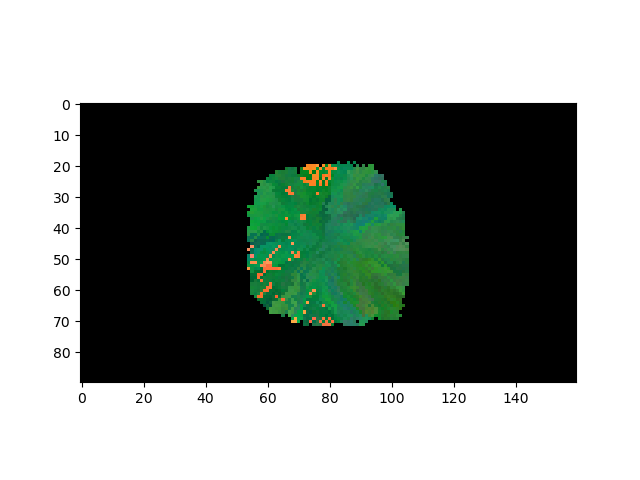
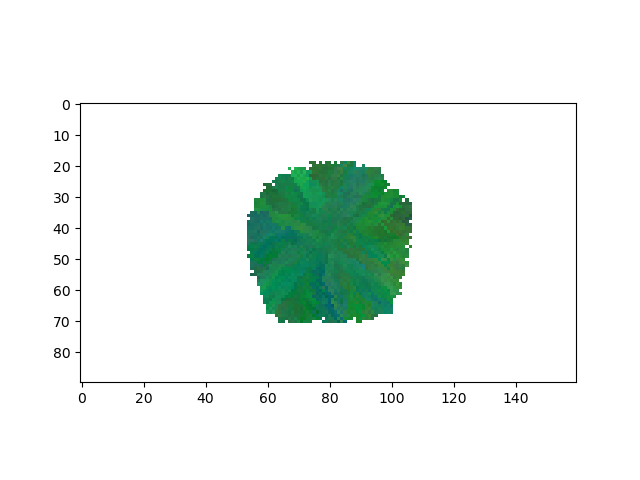
fixed white background

diff --git a/colour.py b/colour.py
@@ -7,7 +7,7 @@ steps = [1, 10, 25, 40, 55, 70, 85]
 propagation_chance = 0.5
 step_size = 0.05
 
-colours = np.zeros((n, m, 3))
+colours = np.ones((n, m, 3))
 colours[n // 2, m // 2] = [0.1, 0.5, 0.3]
 
 neigbhours = [(-1, -1), (-1, 0), (-1, 1), (0, -1), (0, 1), (1, -1), (1, 0), (1, 1)]
@@ -16,15 +16,15 @@ saves = []
 
 for step in range(steps[-1]):
 	print(step)
-	xs, ys = np.where(colours[:, :, 0] != 0)
+	xs, ys = np.where(colours[:, :, 0] != 1)
 	# saves.append(colours.copy())
 	for x, y in zip(xs, ys):
 		for neigh in neigbhours:
 			if 0 <= x + neigh[0] < n and 0 <= y + neigh[1] < m:
-				if (colours[x + neigh[0], y + neigh[1]] == np.zeros(3)).all():
+				if (colours[x + neigh[0], y + neigh[1]] == np.ones(3)).all():
 					if np.random.rand() < propagation_chance:
 						colours[x + neigh[0], y + neigh[1]] = colours[x, y] + np.random.rand(3) * step_size - step_size / 2
-	colours = colours % 1
+	colours = np.clip(colours, 0, 1)
 	if step in steps:
 		plt.imshow(colours, vmin=0, vmax=1)
 		plt.savefig(str(step))
